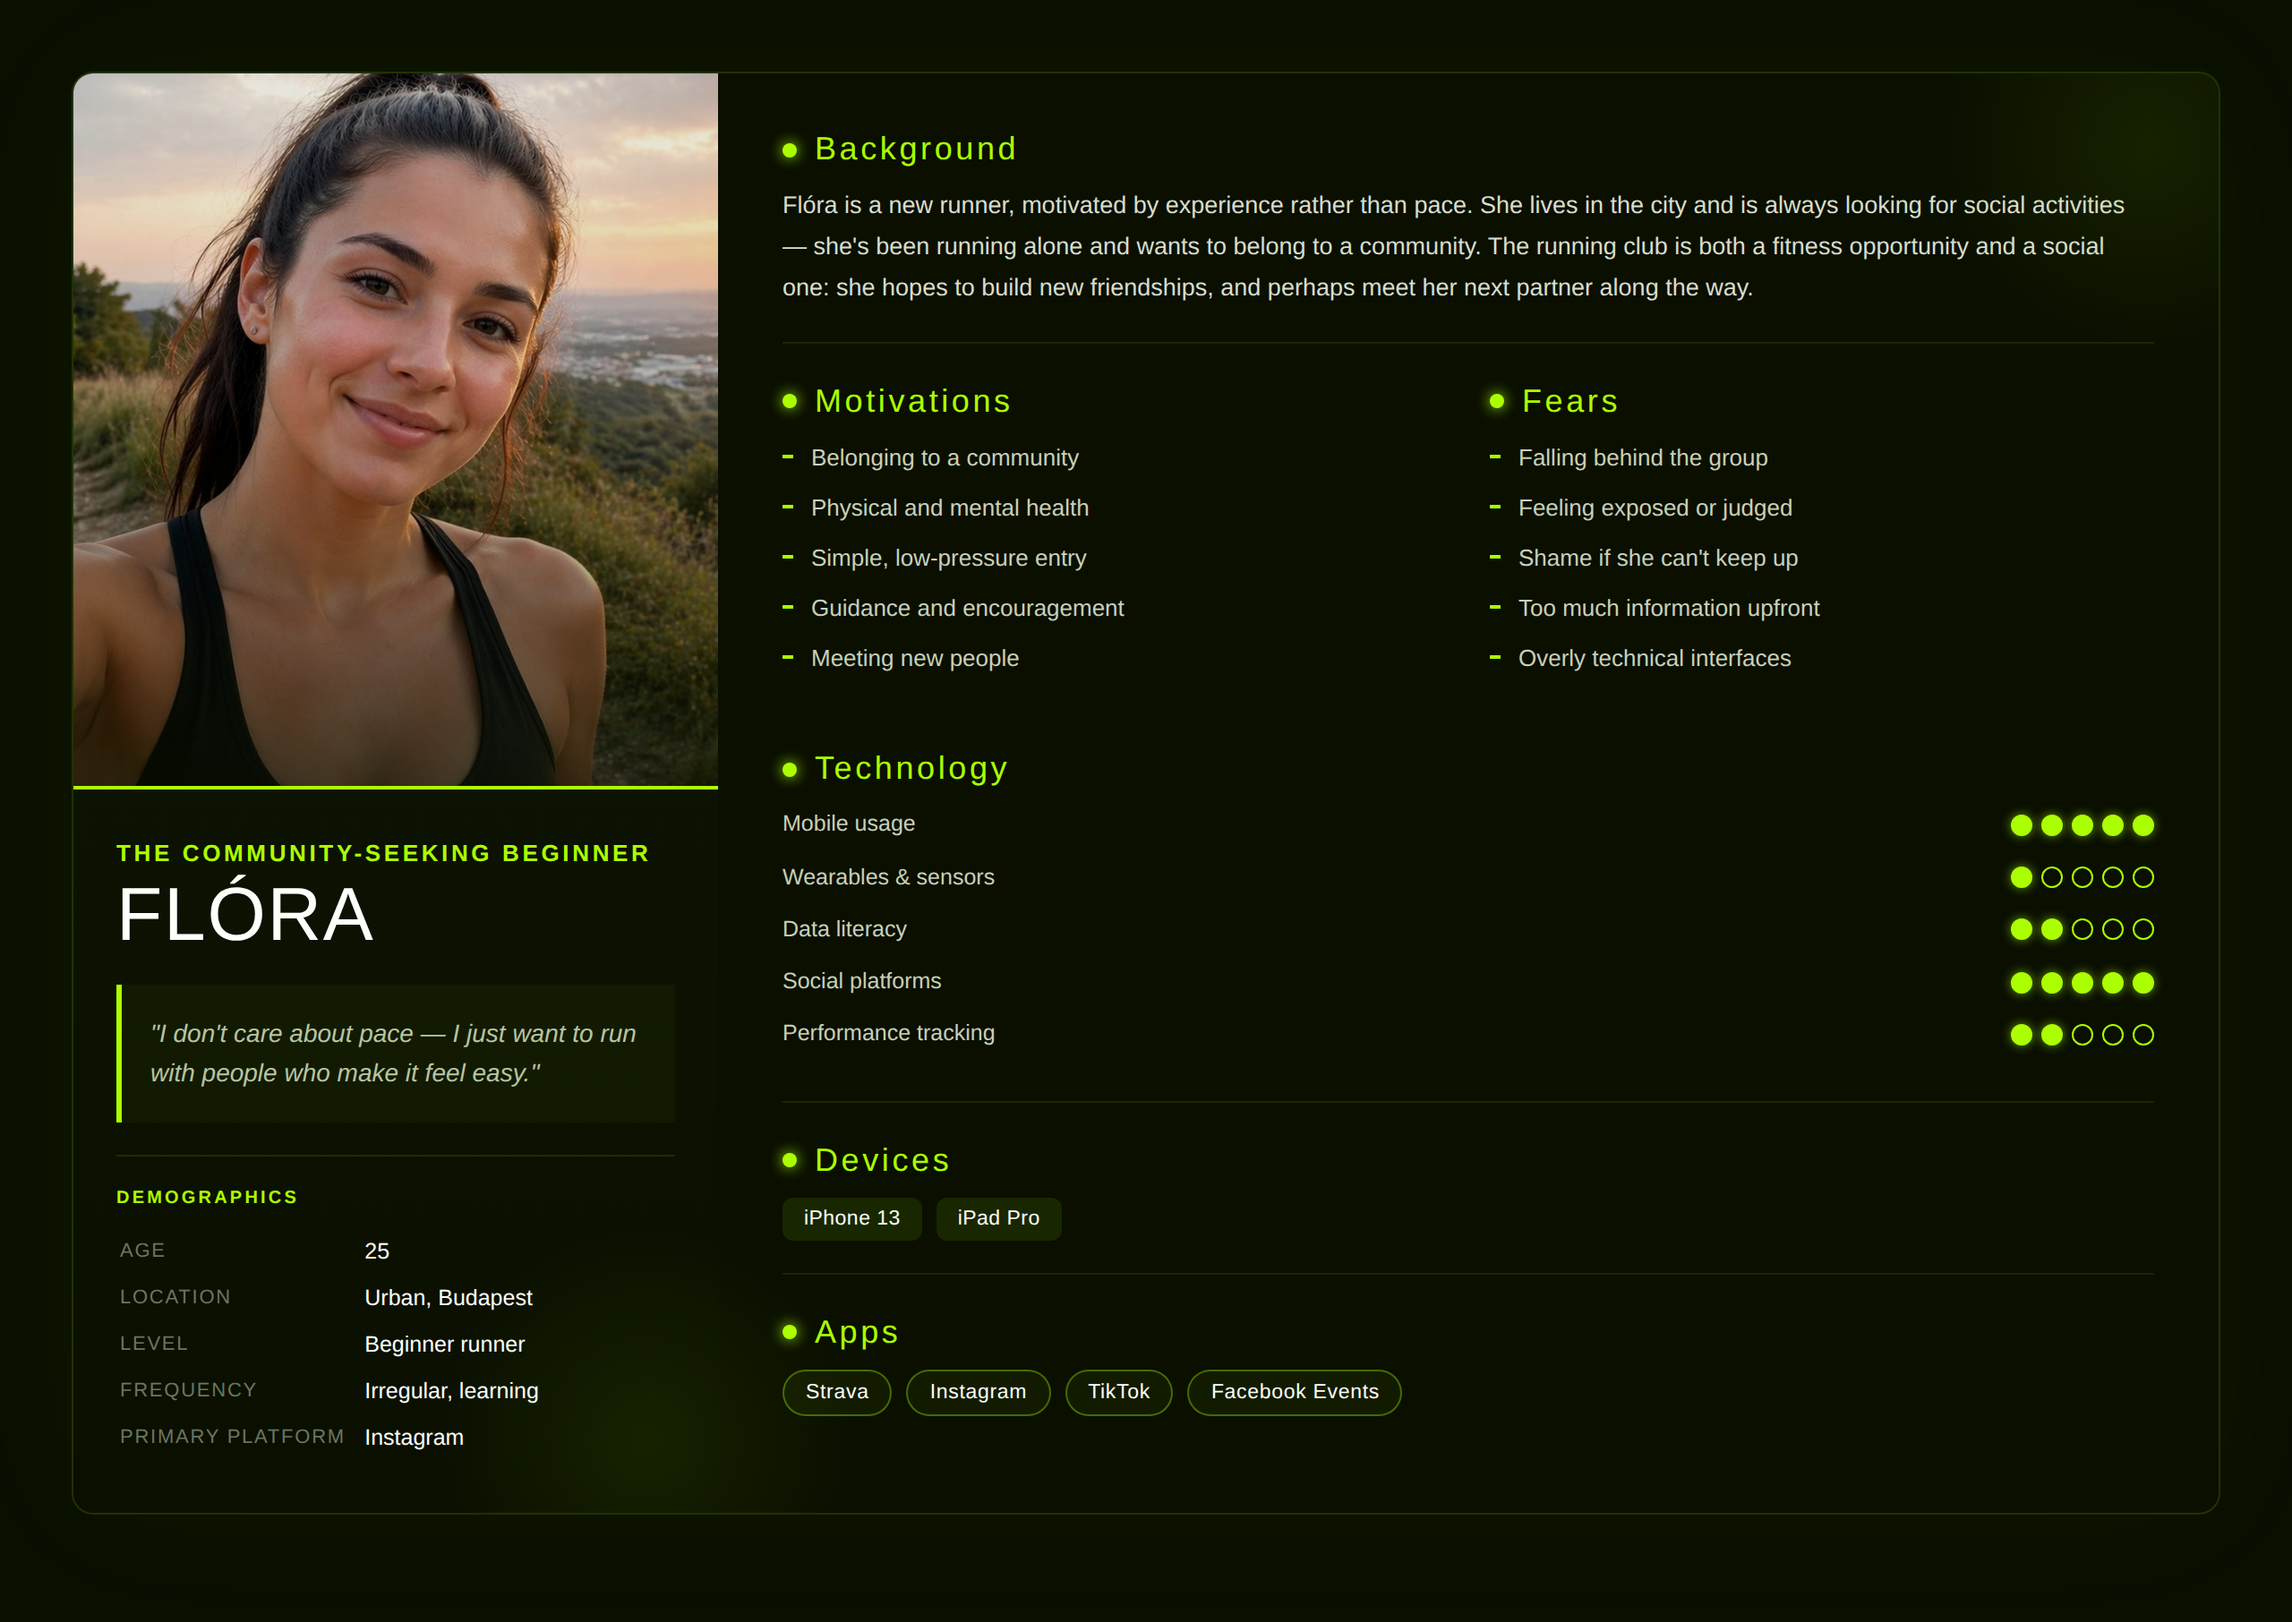
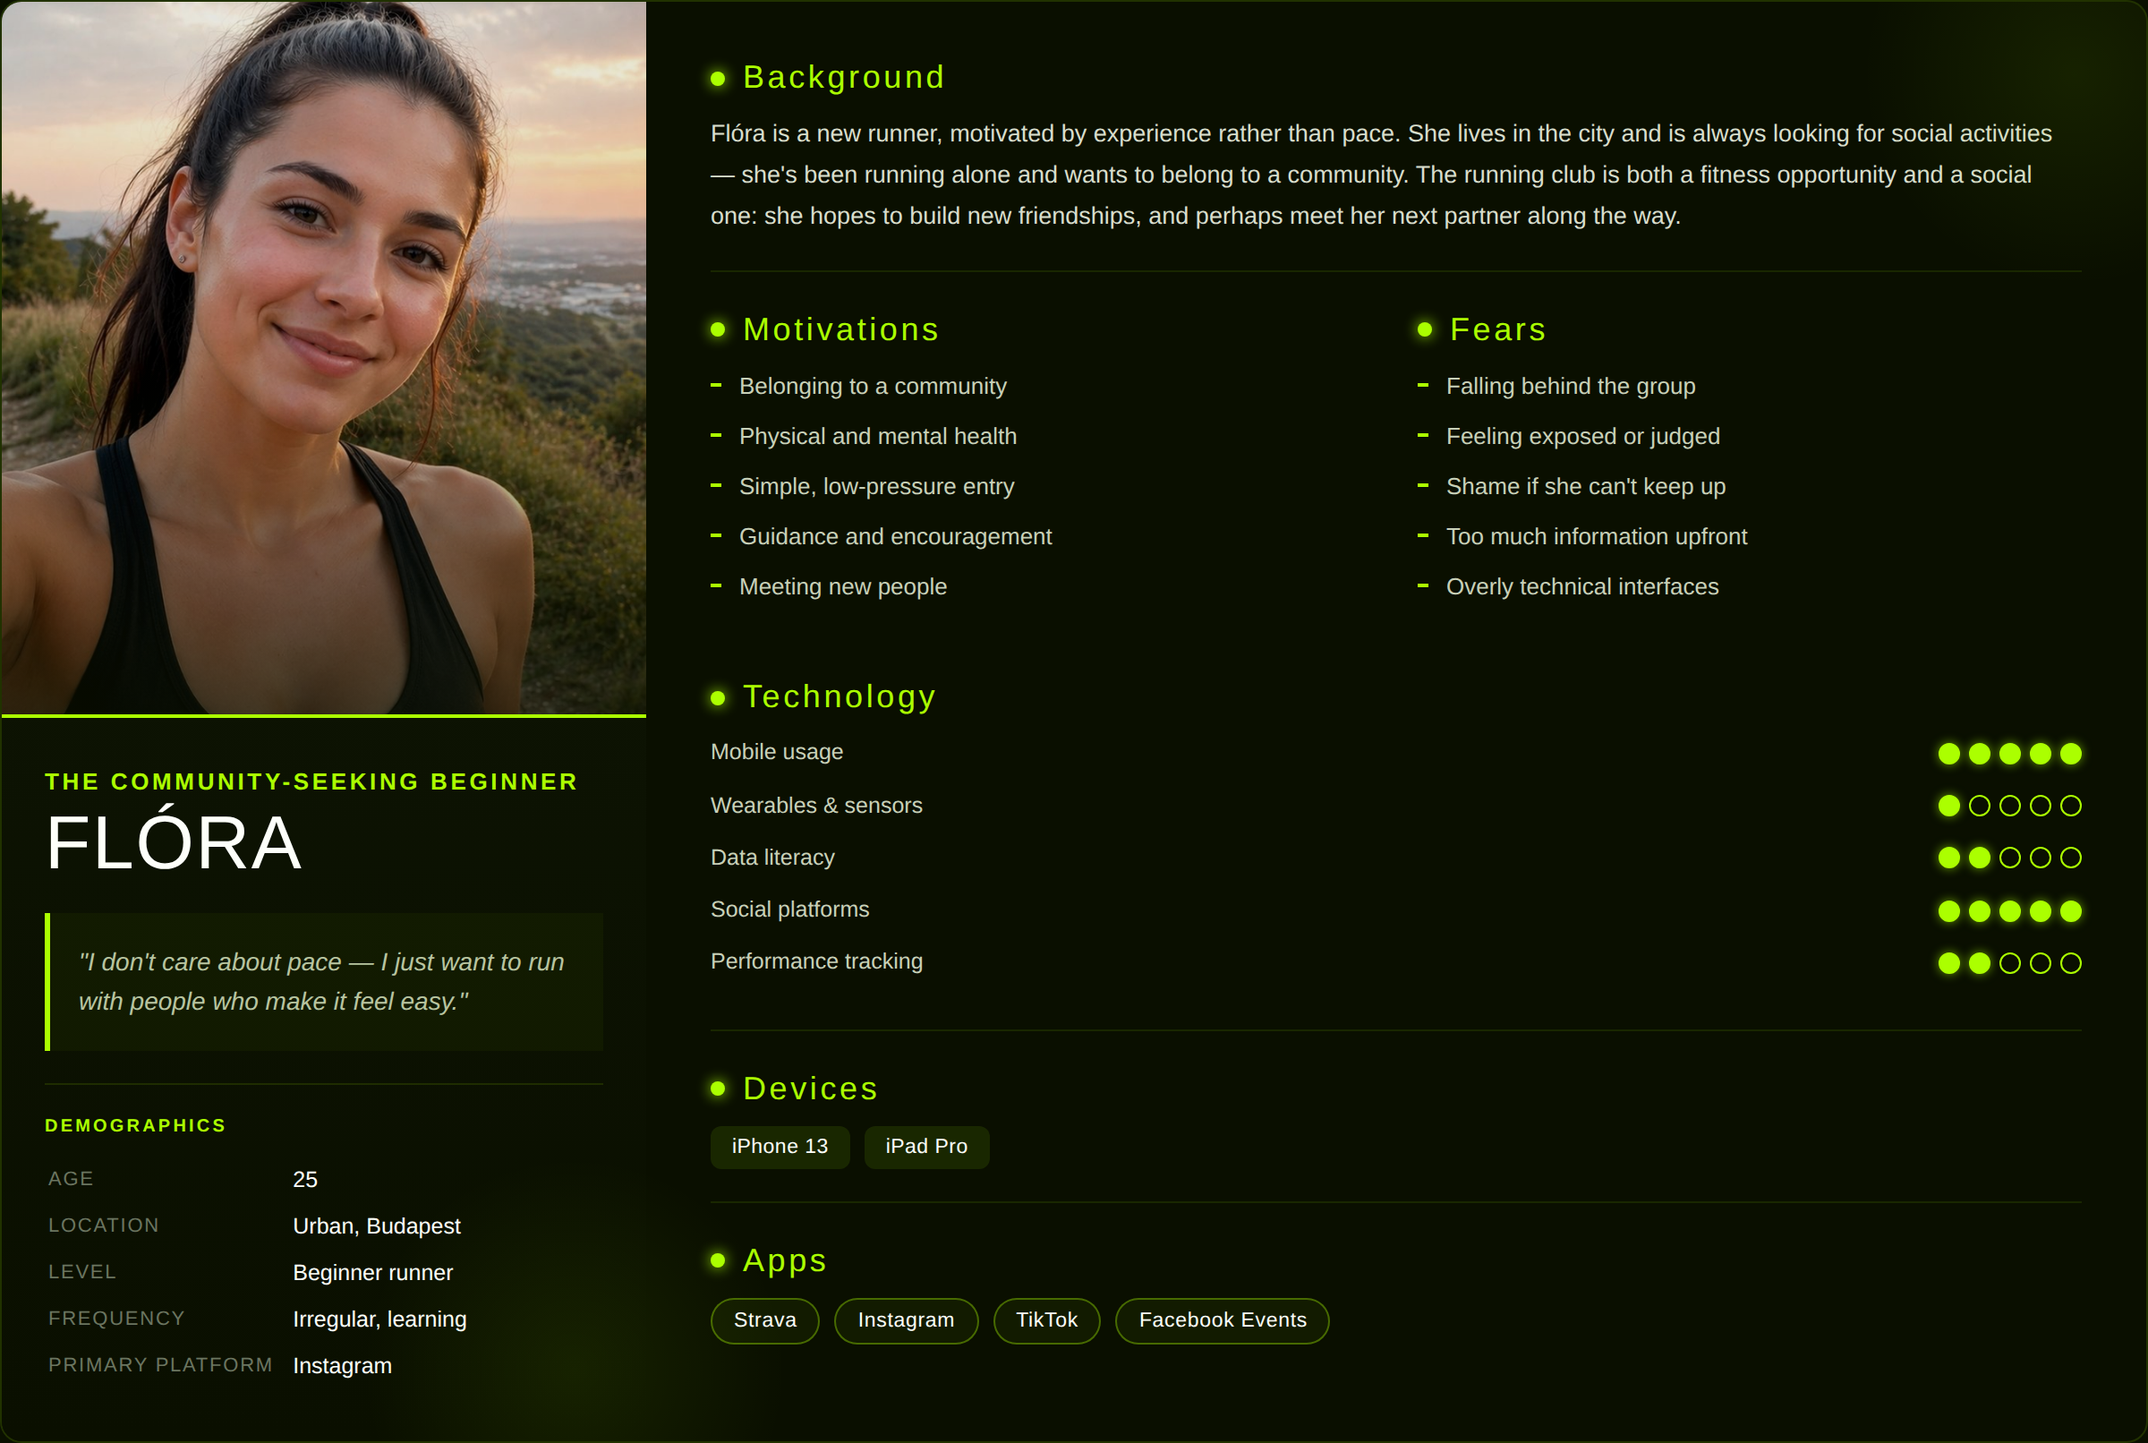
fix: pre-crop persona images instead of CSS object-fit hack
object-fit:cover only crops one axis, so the baked-in horizontal
padding stayed visible and knocked the cards off the grid. Crop the
PNGs themselves to the exact card bounds (computed from the Figma
transform) and drop the CSS cropping logic entirely.

diff --git a/style.css b/style.css
@@ -876,30 +876,11 @@ body.cs-pace .infocard__row dd {
   grid-template-columns: 1fr;
   gap: 40px;
 }
-.cp-persona-card {
-  position: relative;
-  width: 100%;
-  border-radius: 16px;
-  overflow: hidden;
-}
-.cp-persona-card--mate { aspect-ratio: 1054 / 713; }
-.cp-persona-card--flora { aspect-ratio: 1088 / 730; }
 .cp-persona-card img {
-  position: absolute;
-  max-width: none;
+  width: 100%;
+  height: auto;
   display: block;
-}
-.cp-persona-card--mate img {
-  width: 106.66%;
-  height: 112.34%;
-  left: -3.33%;
-  top: -4.91%;
-}
-.cp-persona-card--flora img {
-  width: 106.67%;
-  height: 112.53%;
-  left: -3.34%;
-  top: -4.93%;
+  border-radius: 16px;
 }
 .cp-key-tension { font-size: 16px; line-height: 1.5; opacity: 0.7; max-width: 713px; }
 .cp-key-tension p { margin: 0 0 16px; }
